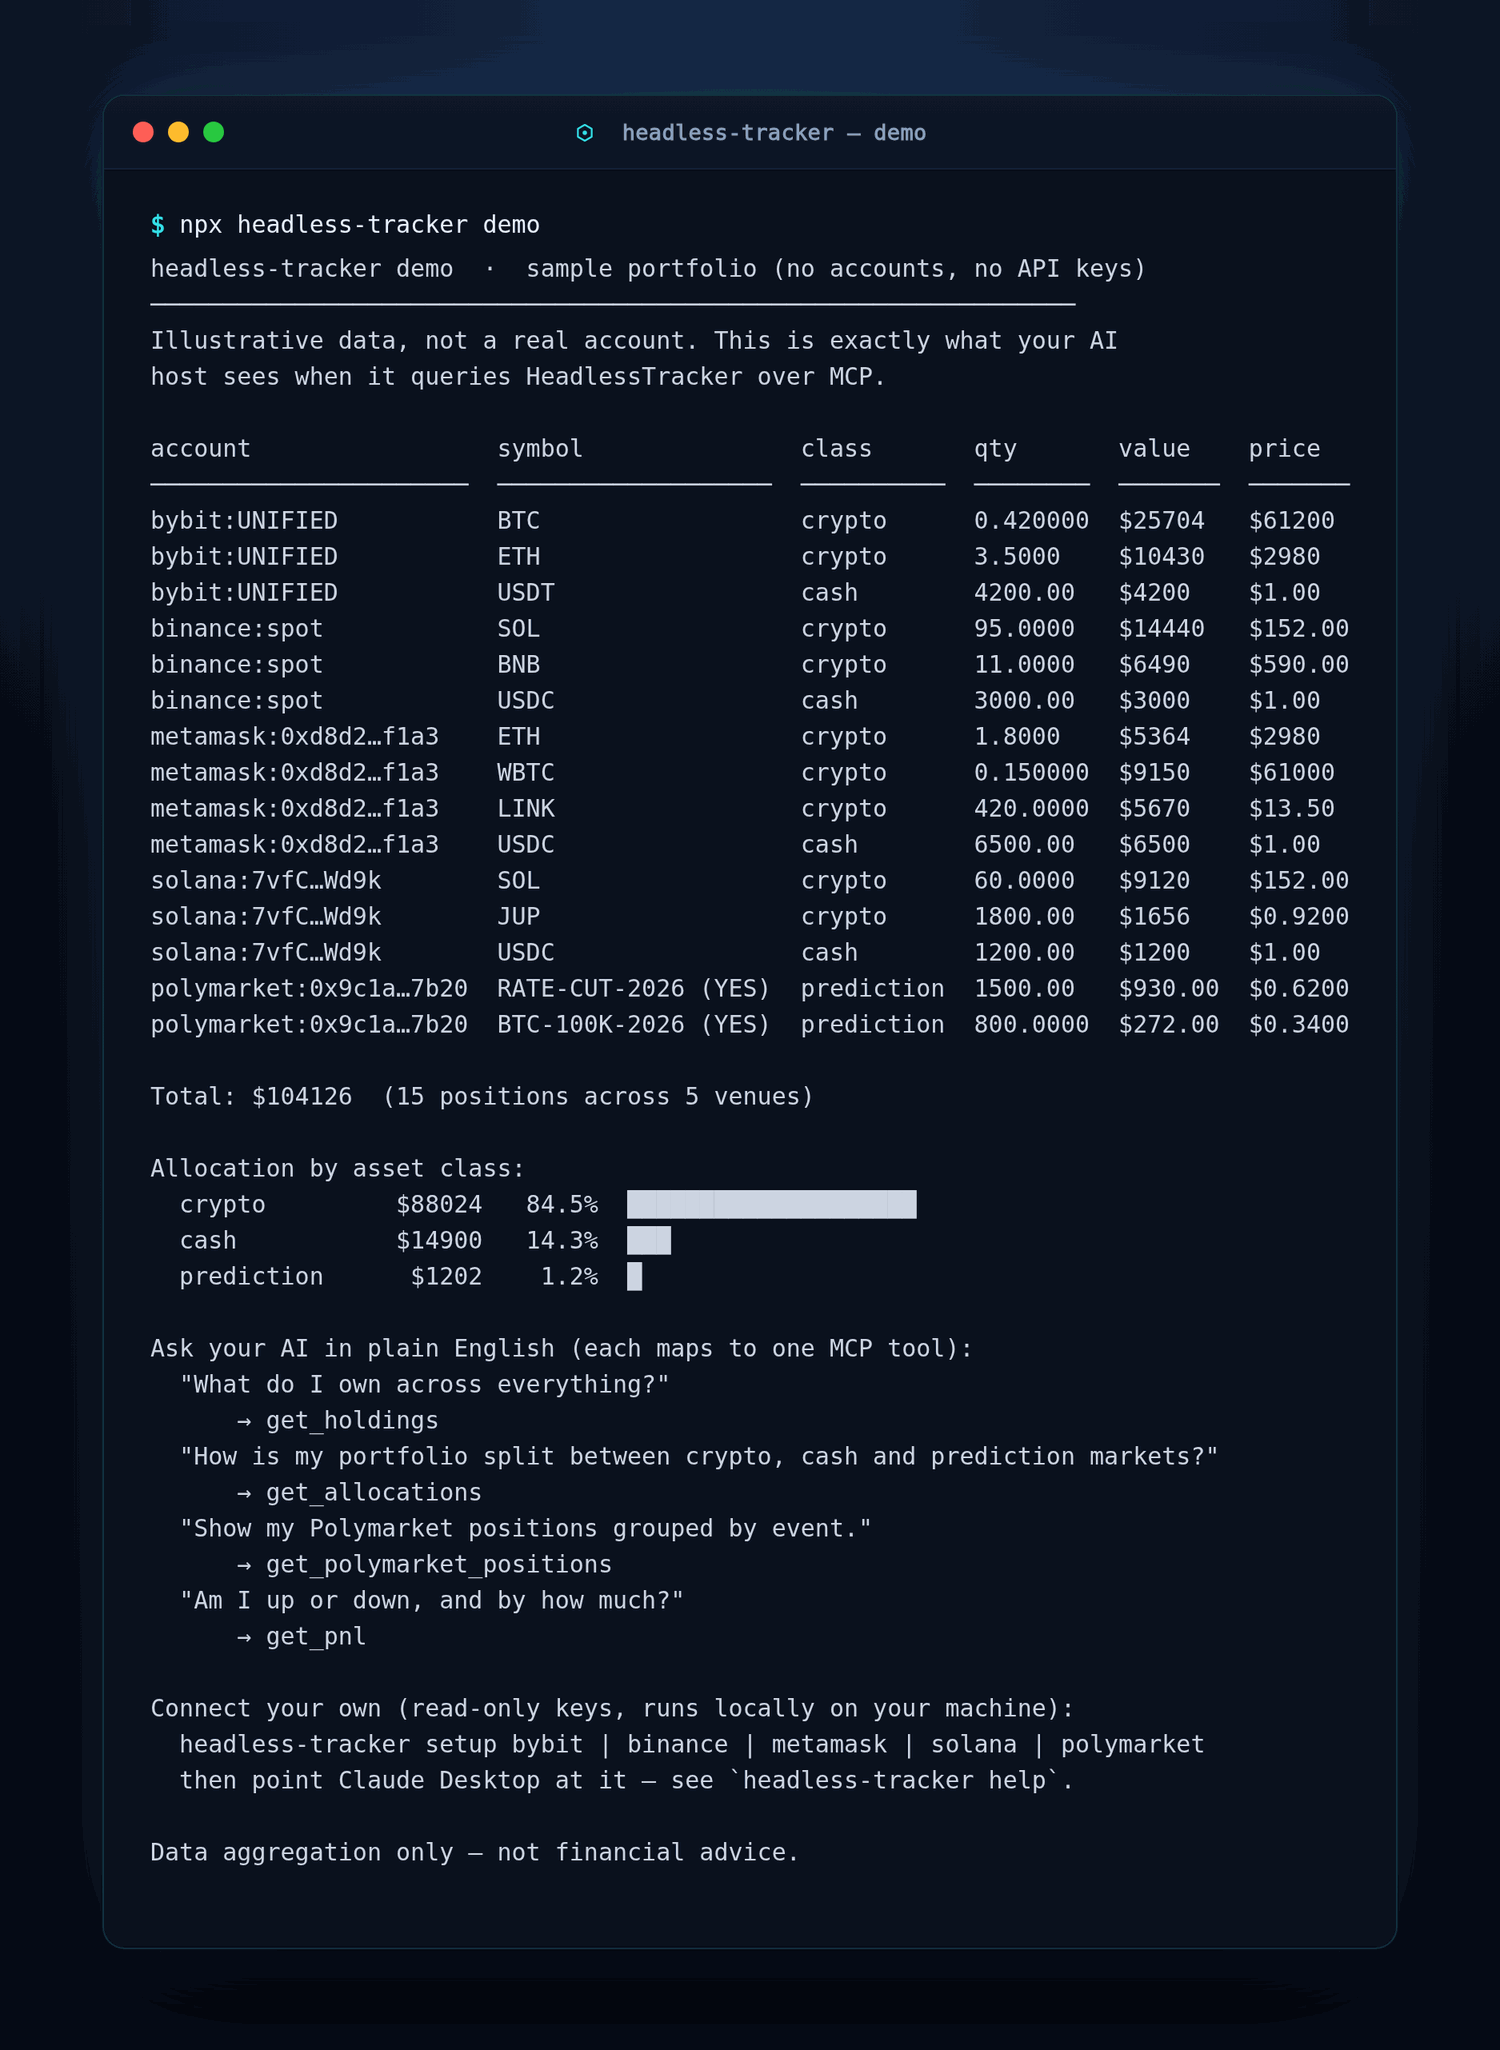
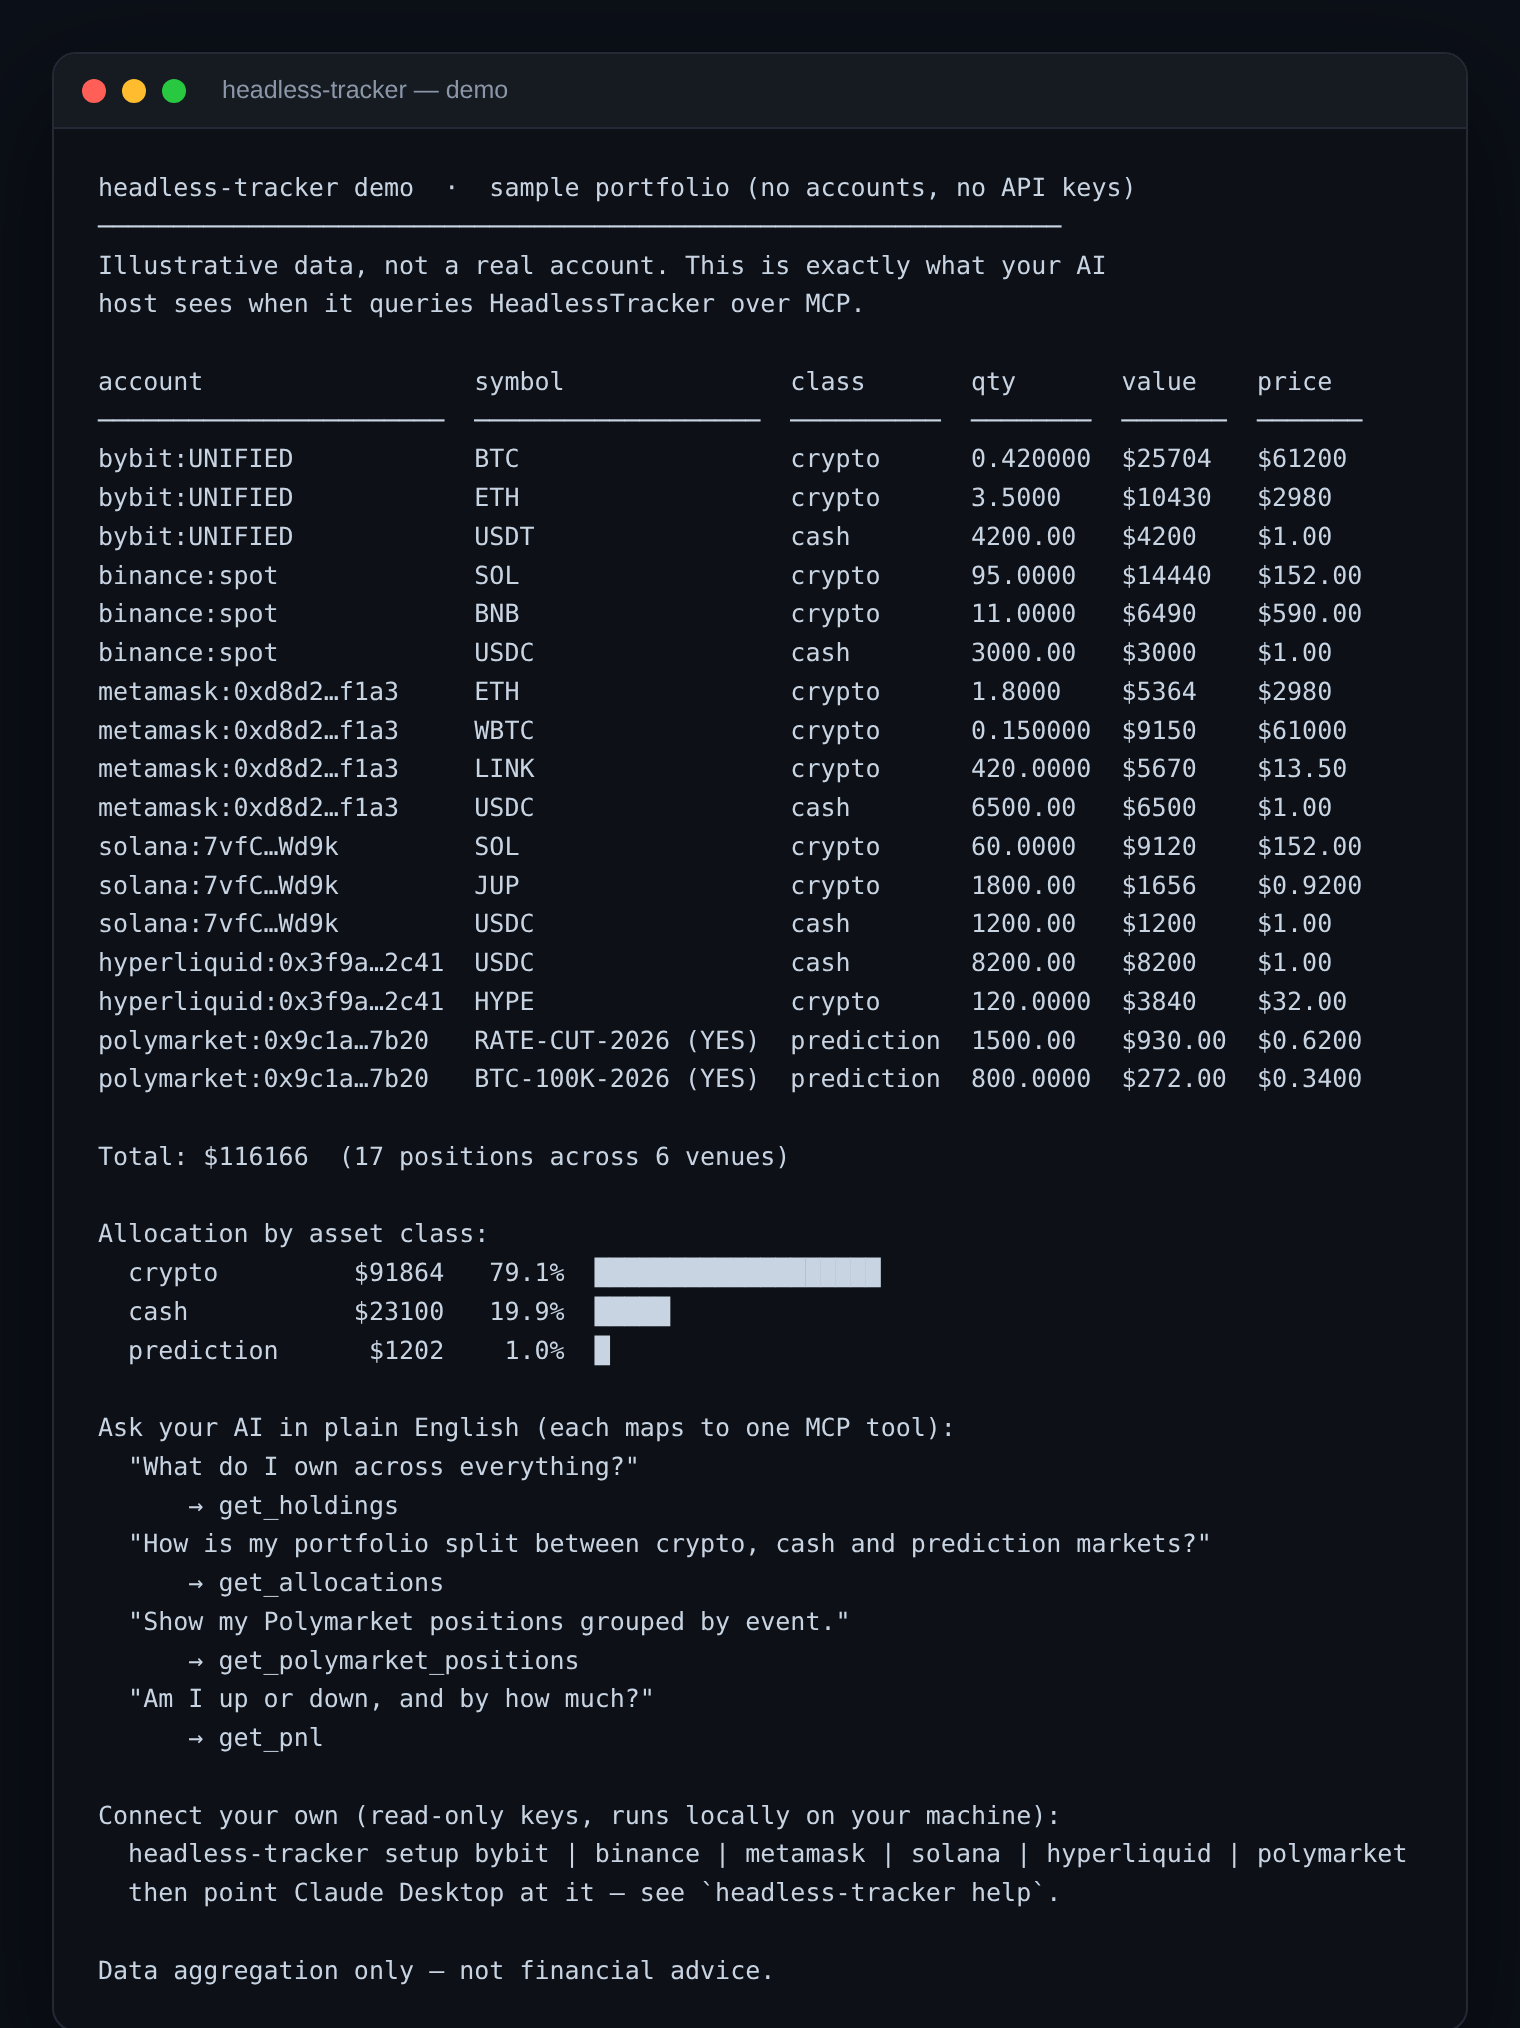
landing: add AI-rendered dashboard hero showcase; refresh demo.png to 6 venues
- New full-width 'One question. Every venue.' showcase band with a
  dashboard mock rendered from real `headless-tracker demo` output
  ($116,166 across 6 venues, allocation + per-venue holdings + HL perps).
- Regenerate docs/demo.png from current CLI output: was stale at 5 venues
  / $104,126, now matches the six-venue copy (adds Hyperliquid).
- Fix trust bar counts: 5 -> 6 connectors, 377 -> 428 tests.
- Refresh hero mock + 'all six integrations' wording.

diff --git a/docs/index.html b/docs/index.html
@@ -333,7 +333,7 @@
               <div class="ai-row"><span>BTC · Bybit</span><span class="v">0.52 &nbsp; $31,200</span></div>
               <div class="ai-row"><span>ETH · Bybit + MetaMask</span><span class="v">3.0 &nbsp; $7,500</span></div>
               <div class="ai-row"><span>SOL · Solana wallet</span><span class="v">48 &nbsp; $6,720</span></div>
-              <div class="ai-row"><span>Election '24 · Polymarket</span><span class="v">$640</span></div>
+              <div class="ai-row"><span>Perp equity · Hyperliquid</span><span class="v">$640</span></div>
               <div class="ai-row total"><span>Total portfolio</span><span class="v">$46,060</span></div>
             </div>
             <div class="ai-note">Example output. Read-only, aggregated locally. Not financial advice.</div>
@@ -344,12 +344,27 @@
   </div>
 </div>
 
+<section id="showcase">
+  <div class="container narrow">
+    <div class="section-head">
+      <div class="eyebrow">Rendered by your AI</div>
+      <h2>One question. Every venue. One picture.</h2>
+      <p class="lead">Ask in plain English and your AI host reads the numbers, then draws the whole portfolio &mdash; six venues, perps and prediction markets in a single view. This is real <code>headless-tracker demo</code> data: the server hands over the holdings, the model renders the dashboard.</p>
+    </div>
+    <img src="dashboard.png"
+         alt="HeadlessTracker portfolio rendered as a dashboard by an AI host: net worth $116,166 across six venues (Bybit, Binance, MetaMask, Solana, Hyperliquid, Polymarket), with asset-class allocation and per-venue holdings, plus open Hyperliquid perp positions shown as informational only."
+         loading="lazy"
+         style="width:100%;max-width:900px;border-radius:16px;border:1px solid #1e2531;display:block;margin:30px auto 0;box-shadow:0 30px 80px rgba(0,0,0,.45);">
+    <p class="step-note" style="text-align:center;margin-top:14px;">Static mock built from the live tool output. The server returns the data; the visual is what an AI host renders on top of it.</p>
+  </div>
+</section>
+
 <div class="trust">
   <div class="container">
     <div class="trust-inner">
       <span class="trust-item"><b>Live</b> on npm</span>
-      <span class="trust-item"><b>5</b> connectors</span>
-      <span class="trust-item"><b>377</b> tests</span>
+      <span class="trust-item"><b>6</b> connectors</span>
+      <span class="trust-item"><b>428</b> tests</span>
       <span class="trust-item">Read-only by design</span>
       <span class="trust-item">Local-first, no telemetry</span>
       <span class="trust-item">TypeScript · MIT</span>
@@ -574,7 +589,7 @@ headless-tracker list-accounts
 
 <span class="hl-comment"># 5. Restart Claude Desktop and ask</span>
 <span class="hl-comment">#    "What's in my portfolio?"</span></code></pre>
-    <p class="step-note">Prefer to clone and run from source? The <a href="https://github.com/tamasPetki/HeadlessTracker#readme">README</a> has the <code style="font-family:var(--mono);color:var(--text-dim)">git clone</code> + <code style="font-family:var(--mono);color:var(--text-dim)">bun install</code> path and per-connector setup for all five integrations.</p>
+    <p class="step-note">Prefer to clone and run from source? The <a href="https://github.com/tamasPetki/HeadlessTracker#readme">README</a> has the <code style="font-family:var(--mono);color:var(--text-dim)">git clone</code> + <code style="font-family:var(--mono);color:var(--text-dim)">bun install</code> path and per-connector setup for all six integrations.</p>
   </div>
 </section>
 
